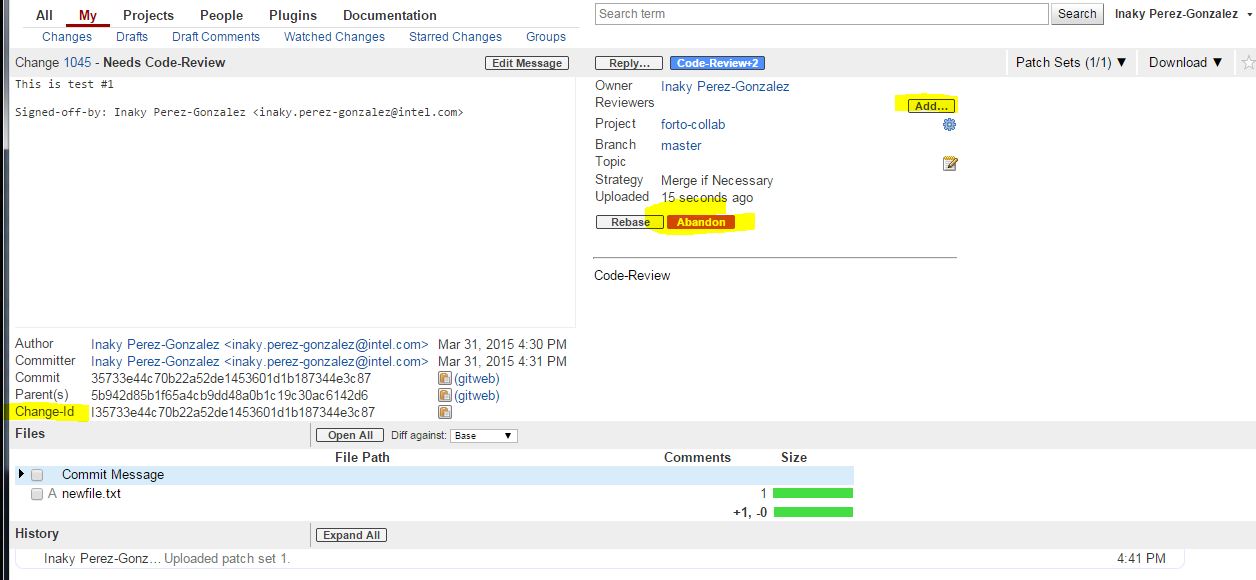
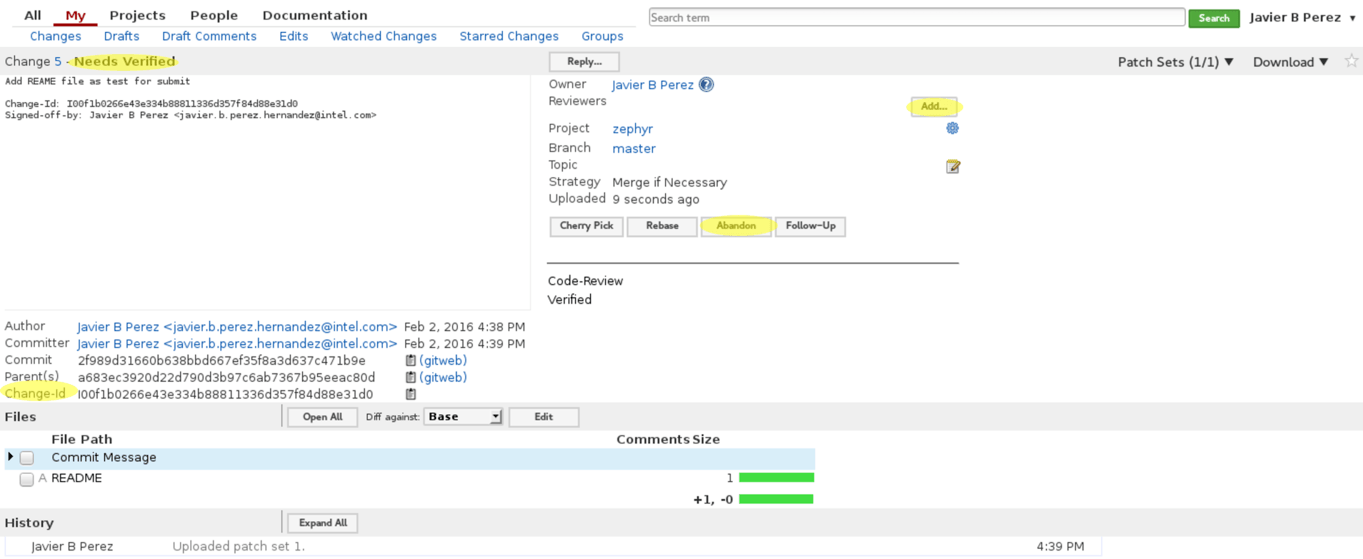
doc: gerrit: update gerrit links and screen shots with LF infra
Updated all the links and references for gerrit to the new gerrit
in LF. Also updated the screenshots to show the new gerrit and
project name.

diff --git a/doc/collaboration/code/gerrit.rst b/doc/collaboration/code/gerrit.rst
@@ -4,48 +4,31 @@ Working with Gerrit
 ###################
 
 
-Follow these instructions to collaborate on the Zephyr Project using
-the infrastructure within Intel’s Open Source site, ``01.org``. First, let
-us answer a couple of common questions regarding the use of Gerrit
-within the Zephyr Project.
-
-#. Who has access to the Gerrit infrastructure?
-
-   Intel, WindRiver, and other partners who have agreed to collaborate
-   in this project.
-
-#. How long will this infrastructure be used?
-
-   Until the project is transferred to the Linux Foundation.
+Follow these instructions to collaborate on the Zephyr Project through the
+Gerrit review system.
 
 Make sure to subscribe to the `mailing list`_ by filling out the
 `registration form`_.
 
-.. _registration form: https://lists.01.org/mailman/listinfo/foss-rtos-collab
-
-.. _mailing list: foss-rtos-collab@lists.01.org
-
 Follow the steps available at :ref:`code_check_out` for information about how
 to access the source code using Git and Gerrit.
 
-Gerrit is a review system, and as such, assigns the following roles to
-users:
+Gerrit assigns the following roles to users:
 
 * **Submitters**: May submit changes for consideration, review other code
   changes, and make recommendations for acceptance or rejection by voting
   +1 or -1, respectively.
 * **Maintainers**: May approve or reject changes based upon feedback from
   reviewers voting +2 or -2, respectively.
-* **Builders**: May use the build automation infrastructure.
+* **Builders**: May use the build automation infrastructure to verify the
+  change.
 
 A comprehensive walk-through of Gerrit is beyond the scope of this
 document. There are plenty of resources available on the Internet. Good
 summaries can be found here:
 
-* `How to use Gerrit <https://wiki.iotivity.org/how_to_use_gerrit_>`_
-* `Gerrit User Review <https://gerrit-review.googlesource.com/Documentation/user-review-ui.html_>`_
-
-For more detailed information visit: `Gerrit Documentation <http://gerrit-documentation.googlecode.com/svn/Documentation/2.6/intro-quick.html_>`_
+* `How to use Gerrit`_
+* `Gerrit User Guide`_
 
 Commit Message Formatting
 *************************
@@ -109,8 +92,8 @@ Submitting a Change
 
 Currently, Gerrit is the only method to submit a change for review.
 
-Before submitting, please ensure each commit conforms with coding
-and contribution guidelines. Directions for building the source code
+Before submitting, please ensure each commit follows :ref:`contributing_code`
+guidelines. Directions for building the source code
 are beyond the scope of this document. Please see the :ref:`getting_started`
 for further detail.
 
@@ -132,46 +115,45 @@ For the Zephyr Project, the special branch is called :literal:`refs/for/master` 
 
    .. code-block:: bash
 
-      Counting objects: 4, done. Compressing objects: 100% (2/2), done.
-      Writing objects: 100% (3/3), 325 bytes | 0 bytes/s, done. Total 3
-      (delta 1), reused 0 (delta 0) remote: Resolving deltas: 100% (1/1)
-      remote: Processing changes: new: 1, refs: 1, done remote: remote:
-      New Changes: remote: https://oic-review.01.org/gerrit/1045 This is
-      test #1 remote: To ssh://oic-review.01.org:29418/forto-collab
-      * [new branch]      HEAD -> refs/for/master
+      Counting objects: 3, done.
+      Writing objects: 100% (3/3), 306 bytes | 0 bytes/s, done.
+      Total 3 (delta 0), reused 0 (delta 0)
+      remote: Processing changes: new: 1, refs: 1, done
+      remote:
+      remote: New Changes:
+      remote:   https://gerrit.zephyrproject.org/r/6 Test commit
+      remote:
+      To ssh://LFID@gerrit.zephyrproject.org:29418/zephyr
+       * [new branch]      HEAD -> refs/for/master
 
-   The gerrit server generates a
-   `link <https://oic-review.01.org/gerrit/1045>`_ where the change can be
-   tracked.
+
+   The gerrit server generates a link where the change can be tracked.
 
 2. Add reviewers to your change.
 
    a. To specify a list of reviewers via the command line, add
-   *%r=reviewer@project.org* to your push command. For
-   example:
+      *%r=reviewer@project.org* to your push command. For example:
 
-   .. code-block:: bash
+      .. code-block:: bash
 
-      $ git push origin
-      HEAD:refs/for/master%r=rev1@email.com,rev2@notemail.com`
-
+         $ git push origin HEAD:refs/for/master%r=rev1@email.com,rv2@notemail.com
 
    b. Autoconfigure GIT to add a set of reviewers if your commits will
       have the same reviewers all at the time.
 
-      i. In the cloned repo, open the :file:`.git/config` file.
+      (i) In the cloned repo, open the :file:`.git/config` file.
 
-      ii. Add the following line in the
-      :literal:`[ branch “master” ]` section:
+      (ii) Add the following line in the :literal:`[ branch “master” ]` section:
 
-   .. code-block:: bash
+         .. code-block:: bash
 
-         [branch "master"] #.... push =
-         HEAD:refs/for/master%r=rev1@email.com,rev2@notemail.com`
+            [branch "master"] #.... push =
+            HEAD:refs/for/master%r=rev1@email.com,rev2@notemail.com`
 
    .. note::
       In the examples, actual email addresses should be used instead of the
       :literal:`@email.com and @notemail.com` addressses.
+      Don't forget to replace :literal:`origin` with your git remote name.
 
 Reviewing Using Gerrit
 **********************
@@ -204,49 +186,60 @@ Reviewing Using Gerrit
   it as another version of the same change.
 
 * **Status**: Currently, the example change is in review status, as indicated
-  by “Needs Code-Review” in the upper-left corner. The list of
+  by “Needs Verified” in the upper-left corner. The list of
   Reviewers will all emit their opinion, voting +1 if they agree to the
   merge, -1 if they disagree. Gerrit users with a Maintainer role can
   agree to the merge or refuse it by voting +2 or -2 respectively.
 
 Notifications are sent to the email address in your commit message's
-Signed-off-by line. Visit
-`your gerrit page <https://oic-review.01.org/gerrit/#/dashboard/self>`_,
-to check the progress of your requests.
+Signed-off-by line. Visit your `gerrit dashboard`_, to check the progress
+of your requests.
 
-Click on a request and the history tab displays feedback.
+Click on a change and see a history tab similar to the one below:
 
 .. figure:: figures/gerrit02.png
    :scale: 75 %
    :alt: Gerrit Feedback Page
 
-   An example of how feedback is displayed on Gerrit.
+   The history tab in Gerrit will show you the in-line comments and
+   the author of the review.
 
 Viewing Pending Changes
 ***********************
 
-1. Find all pending changes by clicking on the
-   :menuselection:`All --> Changes` link in the upper-left corner, or
-   directly at:
-   `<https://oic-review.01.org/gerrit/#/q/project:forto-collab>`_
+- Find all pending changes by clicking on the
+  :menuselection:`All --> Changes` link in the upper-left corner, or
+  directly at: `<https://gerrit.zephyrproject.org/r/#/q/project:zephyr>`_
 
-   If you collaborate in multiple projects, you may wish to limit searching to
-   the specific branch through the search bar in the upper-right side.
+  If you collaborate in multiple projects, you may wish to limit searching to
+  the specific branch through the search bar in the upper-right side.
 
-   Add the filter *project:forto-collab* to limit the visible changes to
-   only those from the forto-collab project.
+  Add the filter *project:zephyr* to limit the visible changes to
+  only those from the Zephyr Project.
 
-2. List all current changes you submitted, or list just those changes in need
-   of your input by clicking on :menuselection:`My --> Changes` or going to:
-   `Your Dashboard <https://oic-review.01.org/gerrit/#/dashboard/self_>`_
+   .. figure:: figures/gerrit03.png
+      :scale: 75 %
+      :alt: Find pending changes for zephyr repo
+
+      This is an example of a search for all changes of *project:zephyr*.
+
+- List all current changes you submitted, or list just those changes in need
+  of your input by clicking on :menuselection:`My --> Changes` or going to:
+  `gerrit dashboard`_
+
+   .. figure:: figures/gerrit04.png
+      :scale: 75 %
+      :alt: User gerrit dashboard
+
+      View of Gerrit dashboard.
 
 Reviewing a Change
 ******************
 
 1. Click on a link for incoming or outgoing review, such as
-   *“This is test #1”* shown in this figure:
+   *“Add REAME file as test for submit”* shown in this figure:
 
-   .. figure:: figures/gerrit03.png
+   .. figure:: figures/gerrit05.png
       :scale: 75 %
       :alt: Incoming and Outgoing Reviews
 
@@ -254,7 +247,7 @@ Reviewing a Change
 
 2. The details of the change and its current status are loaded:
 
-   .. figure:: figures/gerrit04.png
+   .. figure:: figures/gerrit06.png
       :scale: 75 %
       :alt: Detailed View of a Change in Gerrit
 
@@ -265,7 +258,7 @@ Reviewing a Change
    From left to right:
 
    * **Status:** Displays the current status of the change. In the
-     example below, the status reads: +l Needs Code-Review.
+     example below, the status reads: Needs Verified.
 
    * **Reply:** Click on this button after reviewing to add a final
      review message and a score, -1, 0 or +1.
@@ -279,52 +272,37 @@ Reviewing a Change
      the right copies the line to your clipboard. You can easily paste it
      into your git interface to work with the patch as you prefer.
 
-3. Underneath the commit information, the files that have been changed by
-   this patch are displayed:
+   Underneath the commit information, the files that have been changed by
+   this patch are displayed.
 
-   .. figure:: figures/gerrit05.png
-      :scale: 75 %
-      :alt: Changed Files Example
-
-      Observe the list of the files changed by the patch at the bottom.
-
-4. Click on a filename to review it. Select the code base to differentiate
-   against. The default is :diff: Base and it will generally be
+3. Click on a filename to review it. Select the code base to differentiate
+   against. The default is :guilabel:`Base` and it will generally be
    what is needed.
 
-   .. figure:: figures/gerrit06.png
-      :scale: 75 %
+   .. figure:: figures/gerrit07.png
+      :scale: 50 %
       :alt: Code Base Location
 
-      Shows where to change the comparison base version on the review page.
+      Shows the list of changed files.
 
-5. The review page presents the changes made to the file. At the top of
+4. The review page presents the changes made to the file. At the top of
    the review, the presentation shows some general navigation options.
-   Navigate through the patch set using the highlighted arrows on the top
+   Navigate through the patch set using the arrows on the top
    right corner. It is possible to go to the previous or next file in the
    set or to return to the main change screen. Click on the yellow sticky
    pad to add comments to the whole file.
 
-   .. figure:: figures/gerrit07.png
+   .. figure:: figures/gerrit08.png
       :scale: 75 %
-      :alt: Review Page Navigation Highlights
+      :alt: Review Page Navigation
 
-      Highlights the navigation options of the review page.
-
-
-6. The focus of the page is on the comparison window. The changes made
-   are presented in pink on the left versus the base version on the right.
+   The focus of the page is on the comparison window. The changes made
+   are presented in green on the right versus the base version on the left.
    Double click to highlight the text within the actual change to provide
    feedback on a specific section of the code. Press *c* once the code is
    highlighted to add comments to that section.
 
-   .. figure:: figures/gerrit08.png
-      :scale: 75 %
-      :alt: Commenting on a Code Section
-
-      Shows how to add a comment in the comparison window.
-
-7. After adding the comment, it is saved as a draft.
+5. After adding the comment, it is saved as a *Draft*.
 
    .. figure:: figures/gerrit09.png
       :scale: 75 %
@@ -332,14 +310,14 @@ Reviewing a Change
 
       Shows a comment saved as a draft.
 
-8. After reviewing all files and recommending your changes, click the
-   green up arrow at the top right to return to the main change page. Click
-   the reply button, write some final comments, and submit your score for
-   the patch set. Click post to submit the review of each reviewed file, as
+6. Once you have reviewed all files and provided feedback, click the
+   *green up arrow* at the top right to return to the main change page. Click
+   the :guilabel:`Reply` button, write some final comments, and submit your score for
+   the patch set. Click :guilabel:`Post` to submit the review of each reviewed file, as
    well as your final comment and score. Gerrit sends an email to the
    change-submitter and all listed reviewers. Finally, it logs the review
-   for future reference. All individual comments are saved as Draft until
-   the post button is clicked.
+   for future reference. All individual comments are saved as *Draft* until
+   the :guilabel:`Post` button is clicked.
 
    .. figure:: figures/gerrit10.png
       :scale: 75 %
@@ -347,3 +325,14 @@ Reviewing a Change
 
       Shows the dialog box for submitting the final comment and the review
       score of a change.
+
+
+.. _registration form: https://lists.zephyrproject.org/mailman3/lists/users.lists.zephyrproject.org/
+
+.. _mailing list: users@lists.zephyrproject.org
+
+.. _How to use Gerrit: https://wiki.iotivity.org/how_to_use_gerrit
+
+.. _Gerrit User Guide: https://gerrit-review.googlesource.com/Documentation/intro-user.html
+
+.. _gerrit dashboard: https://gerrit.zephyrproject.org/r/#/dashboard/self
